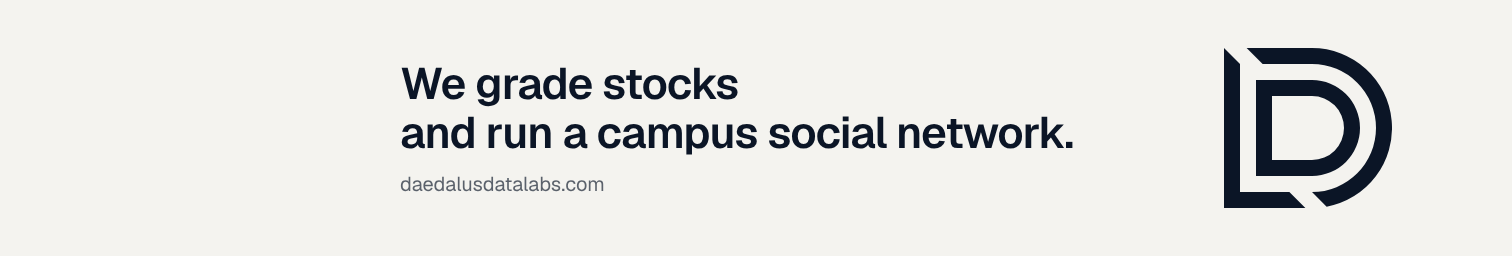
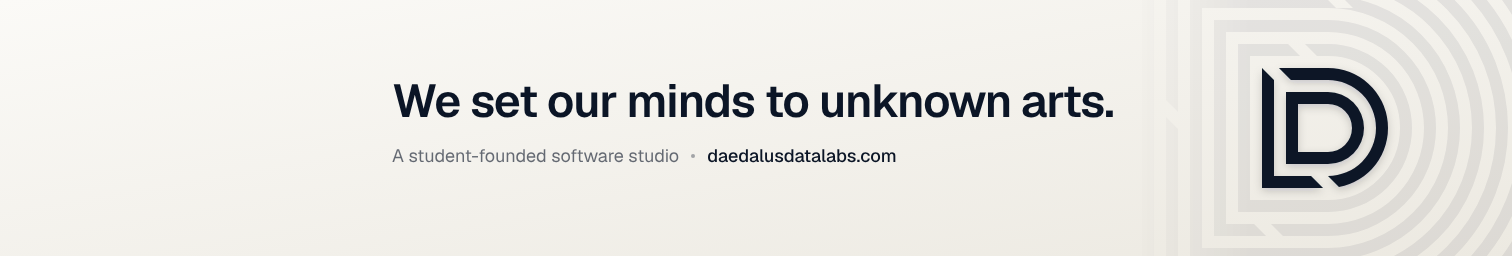
LinkedIn cover: "We set our minds to unknown arts." over a labyrinth ground
The line is Ovid's on Daedalus (Metamorphoses VIII.188). The mark sits at
the centre of its own outline repeated outward at the same stroke and gap,
each wall opened by a 45-degree cut, faint and fading out before the words.

Claude-Session: https://claude.ai/code/session_01RmyFZ3rqkXBx3yodwMfC74

Changed region(s): [[0.2487, 0.25, 0.746, 0.6562], [0.8082, 0.1875, 1.0, 1.0], [0.2487, 0.6875, 0.4041, 0.75]]

diff --git a/scripts/brand.py b/scripts/brand.py
@@ -41,14 +41,43 @@ def icon(n,s,ox,oy,round_=True,shadow=False,kw={}):
             f'<path{g} fill="{INK}" d="{mark.d(s,ox,oy,**kw)}"/></svg>')
 A=REPO+'/assets/'
 # LinkedIn Page images (1512 x 256 cover, 400 x 400 logo). The logo is the app-icon tile at
-# stroke 24 (252 x 240), centred exactly; LinkedIn rounds it. The page logo covers the cover's lower left, and
-# phones crop its edges, so the words start 400 px in and the mark stays clear of the right edge.
-BANNER=('<link rel="stylesheet" href="https://fonts.googleapis.com/css2?family=Geist:wght@400;600&display=block">'
- f'<div style="position:relative;width:1512px;height:256px;background:{MARBLE};font-family:Geist,sans-serif;color:{INK}">'
- '<div style="position:absolute;left:400px;top:0;height:256px;display:flex;flex-direction:column;justify-content:center">'
- '<div style="font-weight:600;font-size:44px;line-height:1.12;letter-spacing:-.02em">We grade stocks<br>and run a campus social network.</div>'
- '<div style="margin-top:14px;font-size:20px;color:rgba(11,21,38,.66)">daedalusdatalabs.com</div></div>'
- f'<div style="position:absolute;left:1224px;top:48px">{raw(168,160,4,0,0)}</div></div>')
+# stroke 24 (252 x 240), centred exactly; LinkedIn rounds it. The Page logo covers the cover's
+# lower left and phones crop its edges, so the words sit in the middle third.
+def linkedin_banner():
+    import math
+    W,H=1512,256; sc=3; s=g=4*sc                 # the mark at stroke 12: 126 x 120
+    ox,oy=1262,68                                # centred vertically: 68 + 120 + 68
+    L,T,B=ox,oy,oy+120; cx=ox+22*sc; R=20*sc; w=g*math.sqrt(2)
+    rings=[];cuts=[]
+    # The mark's outline repeated outward at the same stroke and gap: the mark becomes the
+    # centre of a larger labyrinth. Each wall has a 45-degree opening g wide, like the mark's,
+    # alternating top and bottom, with more in the left walls.
+    for n in range(1,12):
+        d=g+s/2+(n-1)*(s+g)
+        rings.append(f'M{L-d} {T-d}H{cx}A{R+d} {R+d} 0 0 1 {cx} {B+d}H{L-d}Z')
+        if n%2: y0,y1,xc=T-d-s/2,T-d+s/2,ox+14+18*n
+        else:   y0,y1,xc=B+d-s/2,B+d+s/2,cx-40-14*n
+        c=xc-(y0+y1)/2
+        cuts.append(f'<polygon points="{c+y0},{y0} {c+w+y0},{y0} {c+w+y1},{y1} {c+y1},{y1}"/>')
+        if n>2 and n%2==0:
+            x0,x1=L-d-s/2,L-d+s/2; c2=(x0+x1)/2-(T+30+(n*37)%70)
+            cuts.append(f'<polygon points="{x0},{x0-c2} {x1},{x1-c2} {x1},{x1-c2+w} {x0},{x0-c2+w}"/>')
+    svg=(f'<svg xmlns="http://www.w3.org/2000/svg" width="{W}" height="{H}" viewBox="0 0 {W} {H}" style="position:absolute;left:0;top:0">'
+     '<defs><linearGradient id="bg" x1="0" y1="0" x2="1" y2="1"><stop offset="0" stop-color="#FBFAF7"/><stop offset="1" stop-color="#ECE9E1"/></linearGradient>'
+     '<linearGradient id="fade" gradientUnits="userSpaceOnUse" x1="1130" y1="0" x2="1250" y2="0"><stop offset="0" stop-color="#fff" stop-opacity="0"/><stop offset="1" stop-color="#fff"/></linearGradient>'
+     f'<mask id="m" maskUnits="userSpaceOnUse" x="0" y="0" width="{W}" height="{H}"><rect width="{W}" height="{H}" fill="url(#fade)"/><g fill="#000">{"".join(cuts)}</g></mask>'
+     f'<filter id="sh" x="-30%" y="-30%" width="160%" height="160%"><feDropShadow dx="0" dy="3" stdDeviation="4" flood-color="{INK}" flood-opacity=".18"/></filter></defs>'
+     f'<rect width="{W}" height="{H}" fill="url(#bg)"/>'
+     f'<path mask="url(#m)" d="{"".join(rings)}" fill="none" stroke="{INK}" stroke-opacity=".07" stroke-width="{s}"/>'
+     f'<path filter="url(#sh)" fill="{INK}" d="{mark.d(sc,ox,oy)}"/></svg>')
+    return ('<link rel="stylesheet" href="https://fonts.googleapis.com/css2?family=Geist:wght@400;500;600&display=block">'
+     f'<div style="position:relative;width:{W}px;height:{H}px;font-family:Geist,sans-serif;color:{INK}">{svg}'
+     '<div style="position:absolute;left:392px;top:0;height:244px;display:flex;flex-direction:column;justify-content:center">'
+     '<div style="font-weight:600;font-size:46px;line-height:1.08;letter-spacing:-.025em">We set our minds to unknown arts.</div>'
+     '<div style="margin-top:18px;display:flex;align-items:center;gap:12px;font-size:18px;color:rgba(11,21,38,.62)">'
+     '<span>A student-founded software studio</span><span style="width:4px;height:4px;border-radius:50%;background:rgba(11,21,38,.35)"></span>'
+     f'<span style="color:{INK};font-weight:500">daedalusdatalabs.com</span></div></div></div>')
+BANNER=linkedin_banner()
 jobs=[dict(svg=icon(16,1,3,3,kw=T16),w=16,h=16,out=A+'favicon-16.png'),
  dict(svg=icon(32,.5,6,6),w=32,h=32,out=A+'favicon-32.png'),
  dict(svg=icon(48,.75,8,9),w=48,h=48,out=TMP+'/fav48.png'),

diff --git a/BRAND.md b/BRAND.md
@@ -59,6 +59,9 @@ To set a new size, pick a scale that puts the stroke on whole pixels (0.25 per u
 - `daedalus-mark-ink.svg`, `daedalus-mark-reversed.svg`: for the web.
 - `daedalus-tile-512.png`, `apple-touch-icon.png`, `favicon-32.png`, `favicon-16.png`, `/favicon.svg`, `/favicon.ico` (16/32/48).
 - `linkedin-logo-400.png`: 400 × 400 Page logo. The app-icon tile, mark at stroke 24 (252 × 240), exactly centred (74 px each side, 80 px top and bottom), full bleed; LinkedIn rounds it.
-- `linkedin-banner-1512x256.png`: 1512 × 256 Page cover. Marble ground, headline in Geist SemiBold 44 px with the URL under it,
-  starting 400 px in (the Page logo covers the lower left); mark at stroke 16 (168 × 160), 120 px from the right edge.
+- `linkedin-banner-1512x256.png`: 1512 × 256 Page cover. The line is "We set our minds to unknown arts." (Ovid, *Metamorphoses*
+  VIII.188, on Daedalus: *et ignotas animum dimittit in artes*), Geist SemiBold 46 px, over "A student-founded software studio ·
+  daedalusdatalabs.com" at 18 px, 392 px in: clear of the Page logo at lower left and of the phone crop. The mark sits on the
+  right at stroke 12 (126 × 120) with a soft shadow, at the centre of its own outline repeated outward at the same stroke and
+  gap, each wall opened by a 45° cut, in ink at 7% and fading out before the words. The ground is a soft marble gradient.
 - `og.png`: 1200 × 630. Lockup top-left, headline, mark at stroke 28 on the right.
